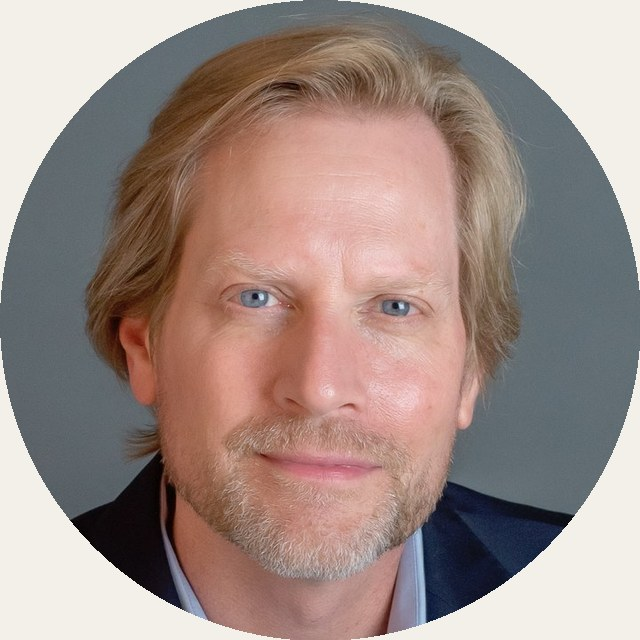
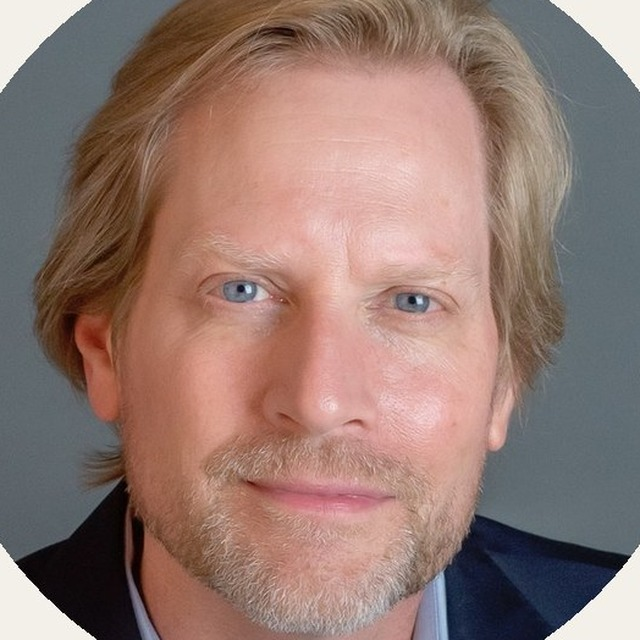
Equal-size circular headshots; LinkedIn links on bios

diff --git a/src/routes/index.tsx b/src/routes/index.tsx
@@ -185,6 +185,7 @@ function Home() {
                 <div className="role">Systems · Scaling · Strategy</div>
                 <p>A Purdue engineer who became a leadership advisor. Builds the operating systems,
                   leads the scaling work, and chairs peer advisory forums for owners and CEOs.</p>
+                <a className="pr-li" href="https://www.linkedin.com/in/john-d-erickson/" target="_blank" rel="noopener noreferrer">LinkedIn ↗</a>
               </div>
             </div>
             <div className="pr">
@@ -195,6 +196,7 @@ function Home() {
                 <p>A licensed clinical counselor with thirty years across consulting, higher
                   education, and behavioral health. Forms leaders, restores teams, and guides his
                   own peer advisory forums.</p>
+                <a className="pr-li" href="https://www.linkedin.com/in/dennishumphrey/" target="_blank" rel="noopener noreferrer">LinkedIn ↗</a>
               </div>
             </div>
           </div>

diff --git a/src/styles.css b/src/styles.css
@@ -115,6 +115,7 @@ img{max-width:100%;display:block}
 .pr h4{font-family:var(--serif);font-size:21px;font-weight:400;line-height:1.05}
 .pr .role{font-family:var(--mono);font-size:10.5px;letter-spacing:.1em;text-transform:uppercase;color:var(--gold);margin-top:6px}
 .pr p{font-size:15px;color:var(--ink-soft);margin-top:10px;line-height:1.5}
+.pr-li{display:inline-block;margin-top:10px;font-family:var(--mono);font-size:11px;letter-spacing:.08em;text-transform:uppercase;color:var(--gold)}
 .network{margin-top:40px;font-family:var(--mono);font-size:13px;color:var(--ink-mute);letter-spacing:.03em;border-left:2px solid var(--gold);padding-left:18px;max-width:62ch;line-height:1.7}
 @media(max-width:760px){.principals{grid-template-columns:1fr;gap:28px}}
 